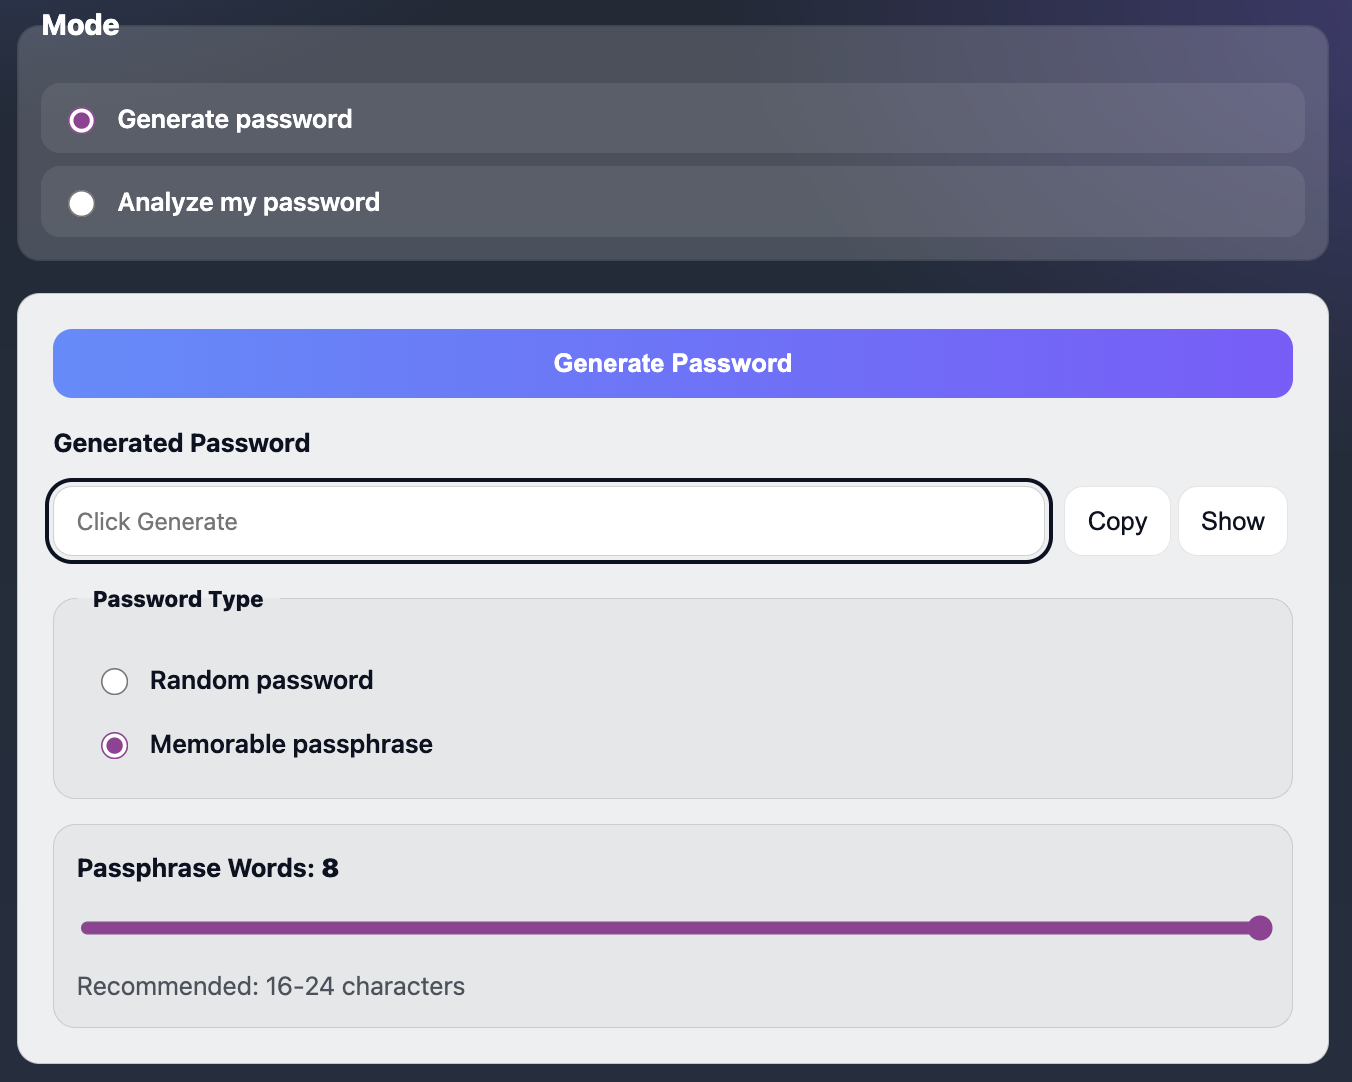
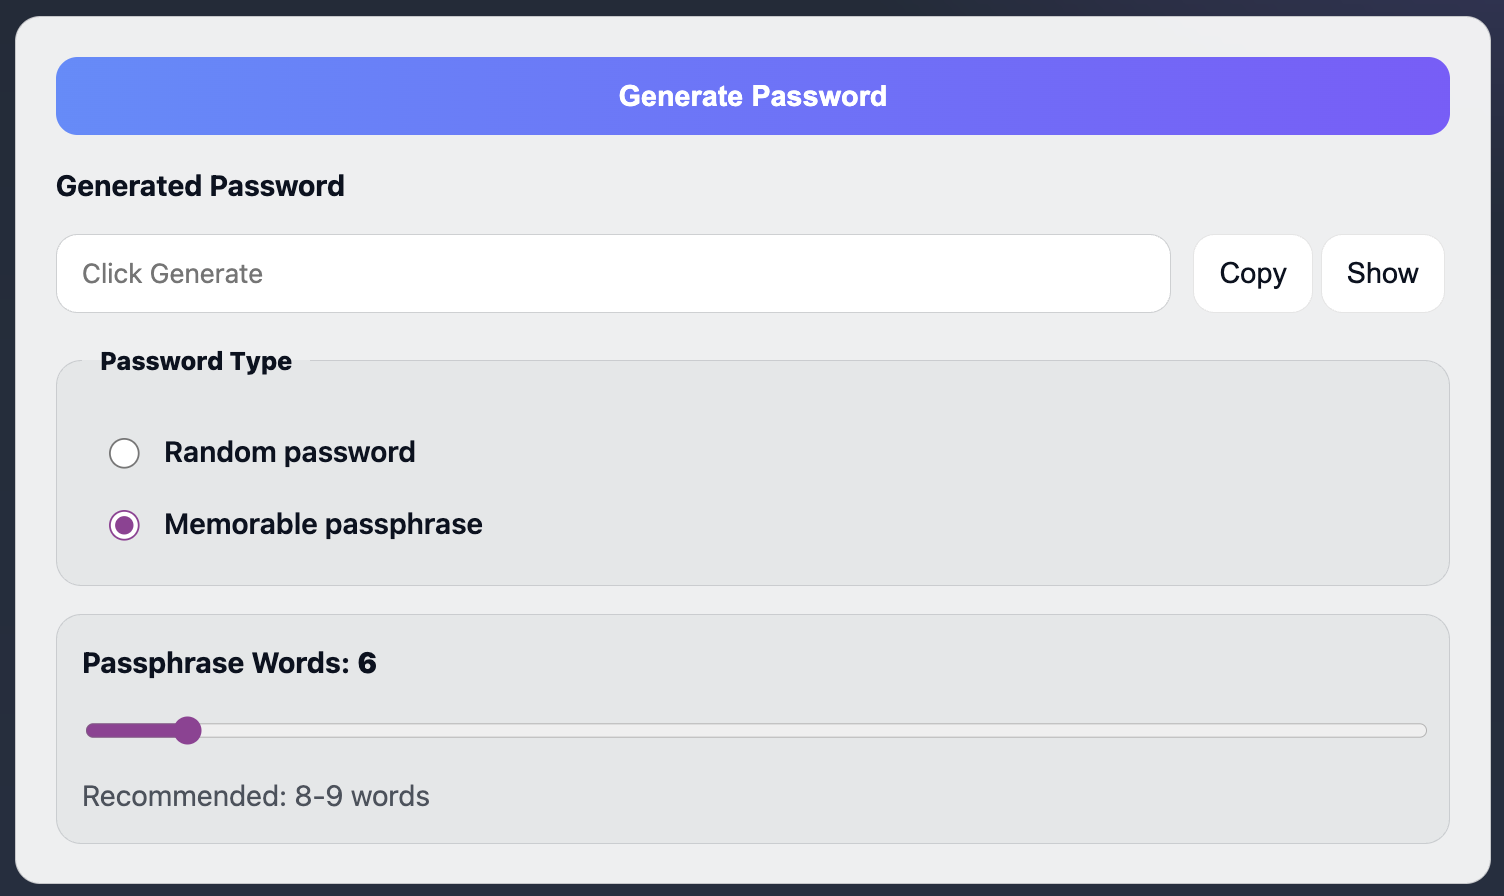
docs: replace demo photos in README
- Replaced all demo photos with screenshots that don't repeatedly show the same features
- Changed slight formatting of the README (e.g. spacing)

diff --git a/README.md b/README.md
@@ -2,11 +2,15 @@
 
 A client-side password generator and strength analyzer that runs entirely in the browser.
 
+## Project Status
+
+✅ Feature-complete (in testing) - January 2026
+
 ## Features
 
 - **2 Modes**
-    1. Generate secure passwords (random or memorable word-based passphrase) using the Web Crypto API
-    2. Analyze user-provided passwords
+    - Generate secure passwords (random or memorable word-based passphrase) using the Web Crypto API
+    - Analyze user-provided passwords
 - Control password length using a slider
 - Select character sets for random password generation
     - Lowercase letters
@@ -14,18 +18,21 @@ A client-side password generator and strength analyzer that runs entirely in the
     - Numbers
     - Symbols
 - Password analysis includes:
-    * Estimated entropy (bits)
-    * Strength rating
-    * Time-to-crack estimates (online vs offline)
-* Toggle password visibility
-* Copy passwords to clipboard
-* No server, tracking, or password storage
+    - Estimated entropy (bits)
+    - Strength rating
+    - Time-to-crack estimates (online vs offline)
+- Toggle password visibility
+- Copy passwords to clipboard
+- No server, tracking, or password storage
 
 ## Demo / Screenshots
 
 ![2 Modes](./images/default_page.png)
+
 ![Random password generator mode](./images/random_mode.png)
+
 ![Memorable passphrase generator mode](./images/memorable_mode.png)
+
 ![Analyze user password mode](./images/analyze_password.png)
 
 ## Usage
